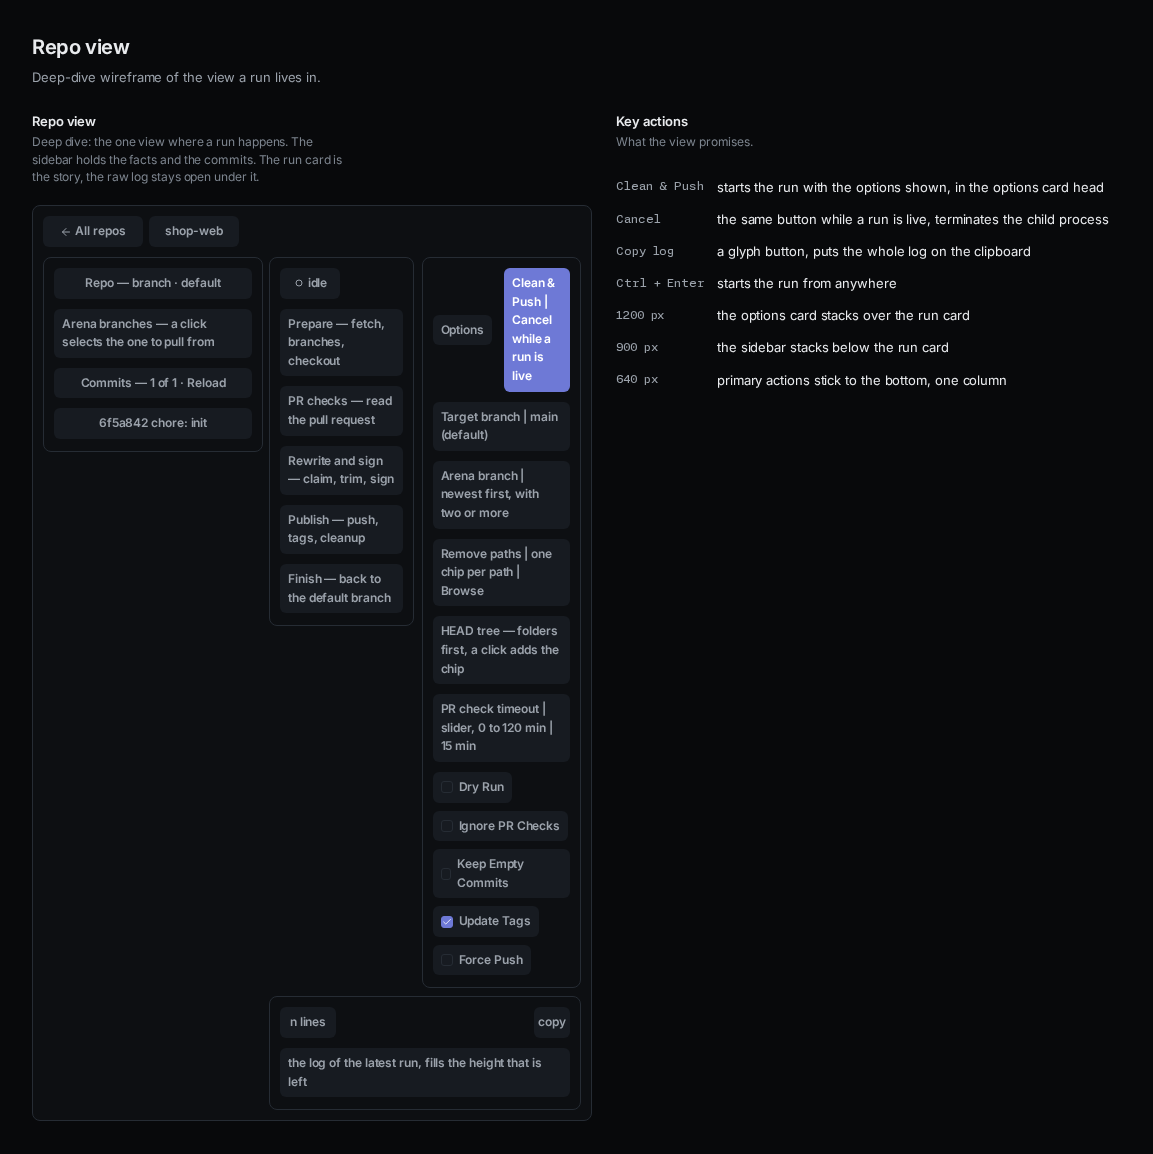
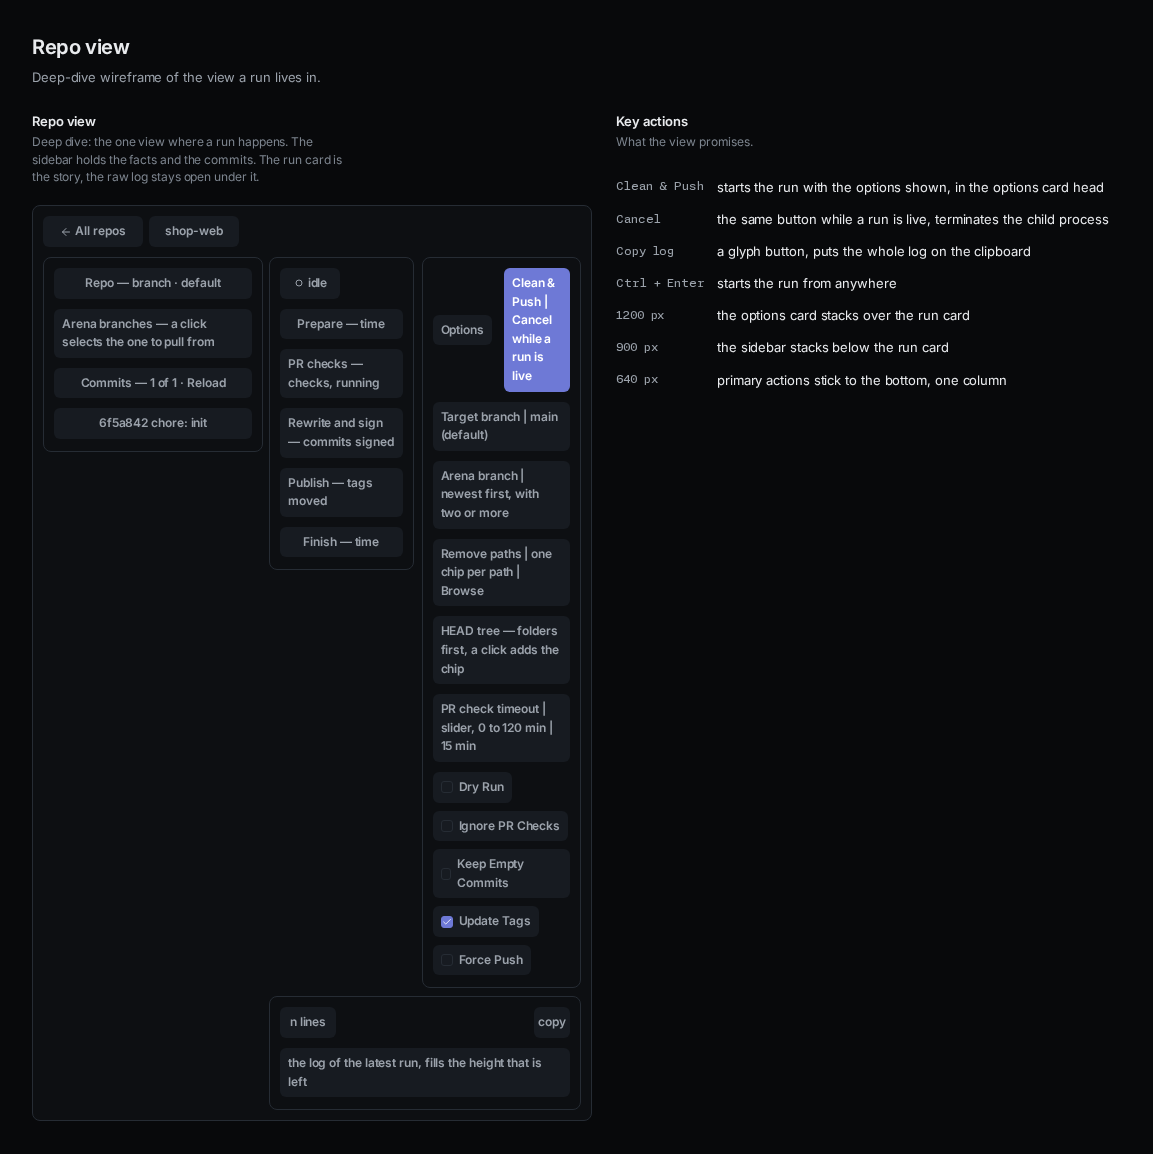
feat(ui): counts in the phase rows instead of hint texts

Changed region(s): [[0.2498, 0.2808, 0.3435, 0.5303]]

diff --git a/ui/static/index.html b/ui/static/index.html
@@ -875,6 +875,7 @@
     opened: 0,
     phases: [],
     phase: null,
+    counts: { checks: {}, dry: false },
     signing: null,
   };
 
@@ -1452,13 +1453,14 @@
   // ------------------------------------------------------------------- jobs
   // ------------------------------------------------------------ run stages
   // GitHub's run view, not a wall of text: one row per stage, ticked off as
-  // the engine reaches it, and the raw log one click away.
+  // the engine reaches it, and the raw log one click away. A row carries no
+  // text until the engine reports a count for it.
   const PHASES = [
-    { id: "prepare", name: "Prepare", sub: "fetch, branches, checkout" },
-    { id: "pr", name: "PR checks", sub: "read the pull request" },
-    { id: "rewrite", name: "Rewrite and sign", sub: "claim, trim, sign" },
-    { id: "publish", name: "Publish", sub: "push, tags, cleanup" },
-    { id: "sync", name: "Finish", sub: "back to the default branch" },
+    { id: "prepare", name: "Prepare", sub: "" },
+    { id: "pr", name: "PR checks", sub: "" },
+    { id: "rewrite", name: "Rewrite and sign", sub: "" },
+    { id: "publish", name: "Publish", sub: "" },
+    { id: "sync", name: "Finish", sub: "" },
   ];
   const PHASE_TESTS = [
     ["prepare", /^arena-cleanup \d|^claimed |^dry run:/],
@@ -1480,9 +1482,54 @@
     return null;
   }
 
+  function plural(n, word) {
+    return `${n} ${word}${n === 1 ? "" : "s"}`;
+  }
+
+  // The row texts come from the engine's own lines: how many checks the PR
+  // has and how many still run, how many commits got a signature, and how
+  // many tags moved on origin. A dry run says what would move instead.
+  function countFrom(text) {
+    const match = /^\S+\s+(INFO|OK|WARN|ERROR|DEBUG)\s+(.*)$/.exec(text);
+    if (!match) return;
+    const [, level, msg] = match;
+    const counts = state.counts;
+    const row = (id) => state.phases.find((p) => p.id === id) || {};
+    let m;
+    if (/^dry run:/.test(msg)) {
+      counts.dry = true;
+    } else if ((m = /^check "([^"]+)": /.exec(msg))) {
+      counts.checks[m[1]] = level; // WARN while it runs, ERROR when it failed
+      const states = Object.values(counts.checks);
+      const live = states.filter((x) => x === "WARN").length;
+      const failed = states.filter((x) => x === "ERROR").length;
+      row("pr").sub = plural(states.length, "check")
+        + (live ? `, ${live} running` : "") + (failed ? `, ${failed} failed` : "");
+    } else if (/reports no status checks at all/.test(msg)) {
+      row("pr").sub = "no checks";
+    } else if (/^no open PR for /.test(msg)) {
+      row("pr").sub = "no PR";
+    } else if (/^--skip-pr-check set/.test(msg)) {
+      row("pr").sub = "skipped";
+    } else if ((m = /^scanning\.\.\. \d+% \((\d+)\/(\d+)\)(?: - (\d+) rewritten)?/.exec(msg))) {
+      row("rewrite").sub = counts.dry
+        ? `${m[3] || 0} of ${plural(+m[2], "commit")} to rewrite`
+        : `${m[1]} of ${m[2]} scanned, ${m[3] || 0} rewritten`;
+    } else if ((m = /(\d+) commit\(s\): \d+ rewritten, (\d+) signed/.exec(msg))) {
+      row("rewrite").sub = `${m[2]} of ${plural(+m[1], "commit")} signed`;
+    } else if ((m = /^(\d+) tag\(s\) point into these commits and would move/.exec(msg))) {
+      row("publish").sub = `${plural(+m[1], "tag")} to move`;
+    } else if ((m = /^updated (\d+) tag\(s\) on origin/.exec(msg))) {
+      row("publish").sub = `${plural(+m[1], "tag")} moved`;
+    } else if ((m = /^--no-tags set: (\d+) tag\(s\) still name/.exec(msg))) {
+      row("publish").sub = `${plural(+m[1], "tag")} not moved`;
+    }
+  }
+
   function resetPhases() {
     state.phases = PHASES.map((p) => ({ ...p, state: "idle", lines: 0, start: 0, end: 0 }));
     state.phase = "prepare";
+    state.counts = { checks: {}, dry: false };
     $("phases").replaceChildren(...state.phases.map((p) =>
       el("li", { class: "phase", "data-phase": p.id, "data-state": "idle" },
         el("div", { class: "phase-head" },
@@ -1526,6 +1573,9 @@
     for (const p of state.phases) {
       if (p.state === "run") p.state = p === last && !ok && !cancelled ? "fail" : "done";
       if (p.state === "idle") p.state = "skip";
+      if (p.id === "publish" && p.state === "done" && !p.sub) {
+        p.sub = state.counts.dry ? "0 tags to move" : "0 tags moved";
+      }
       paintPhase(p);
     }
   }
@@ -1575,10 +1625,7 @@
       phase.lines += 1;
       phase.start = phase.start || line.t || Date.now() / 1000;
       phase.end = line.t || phase.end || Date.now() / 1000;
-      if (/^ok\b/i.test(msgOf(text)) || / done\b/.test(msgOf(text))) {
-        // a short status line for the row, so the list says what happened
-        phase.sub = text.replace(/^.*?\s(?:INFO|OK|WARN|ERROR)\s+/, "").slice(0, 64);
-      }
+      countFrom(text);
       if (phase.state === "idle") phase.state = "run";
       markEarlierDone(id);
     }

diff --git a/tests/e2e/test_phase_counts.py b/tests/e2e/test_phase_counts.py
@@ -1,0 +1,62 @@
+"""The phase rows carry the engine's counts, and no hint text."""
+
+from __future__ import annotations
+
+import re
+
+import pytest
+
+from scripts.walk import Demo, Walker
+
+pytestmark = pytest.mark.e2e
+
+WAIT_MS = 30000
+
+
+def row_texts(walker: Walker) -> dict[str, str]:
+  pairs = walker.page.eval_on_selector_all(
+    ".phase",
+    "els => els.map((e) => [e.dataset.phase, e.querySelector('.phase-sub').textContent])",
+  )
+  return dict(pairs)
+
+
+def test_idle_rows_show_only_their_names(desktop: Walker) -> None:
+  desktop.goto(1200)
+  # no e2e test runs infra-tools, so its view has no latest run to show
+  desktop.click(".repo-card:has-text('infra-tools')", 800)
+  assert set(row_texts(desktop).values()) == {""}
+
+
+def test_a_dry_run_counts_checks_commits_and_tags(desktop: Walker) -> None:
+  desktop.goto(1200)
+  desktop.click(".repo-card:has-text('shop-web')", 800)
+  desktop.click('input[data-opt="dry_run"]', 0)
+  desktop.click("#start", 0)
+  desktop.wait_status("exit")
+  rows = row_texts(desktop)
+  assert rows["prepare"] == ""
+  assert rows["pr"] == "4 checks"
+  assert re.fullmatch(r"\d+ of 23 commits to rewrite", rows["rewrite"])
+  assert rows["publish"] == "0 tags to move"
+  assert rows["sync"] == ""
+
+
+def test_a_waiting_check_shows_as_live(desktop: Walker, demo: Demo) -> None:
+  desktop.goto(1200)
+  desktop.click(".repo-card:has-text('docs-site')", 800)
+  demo.slow_checks(True)
+  try:
+    box = 'input[data-opt="dry_run"]'
+    if desktop.page.is_checked(box):
+      desktop.click(box, 150)
+    desktop.click("#start", 0)
+    desktop.page.wait_for_function(
+      "() => document.querySelector('.phase[data-phase=\"pr\"] .phase-sub')"
+      ".textContent === '1 check, 1 running'",
+      timeout=WAIT_MS,
+    )
+  finally:
+    demo.slow_checks(False)
+    desktop.click("#start", 0)
+    desktop.wait_status("cancelled")

diff --git a/scripts/design_boards.py b/scripts/design_boards.py
@@ -355,11 +355,11 @@ def wireframe_board(_: dict[str, bytes]) -> str:
     + "".join(
       block(f"{n} — {s}", height=24)
       for n, s in (
-        ("Prepare", "fetch, branches, checkout"),
-        ("PR checks", "read the pull request"),
-        ("Rewrite and sign", "claim, trim, sign"),
-        ("Publish", "push, tags, cleanup"),
-        ("Finish", "back to the default branch"),
+        ("Prepare", "time"),
+        ("PR checks", "checks, running"),
+        ("Rewrite and sign", "commits signed"),
+        ("Publish", "tags moved"),
+        ("Finish", "time"),
       )
     )
   )
@@ -462,13 +462,11 @@ def states_board(_: dict[str, bytes]) -> str:
   )
   phases = (
     '<ul class="phases card" style="width:420px">'
-    + phase("done", "Prepare", "fetch, branches, checkout", "0.4s")
-    + phase(
-      "run", "PR checks", 'check "ci": still running, waiting up to 15 min', "running"
-    )
-    + phase("idle", "Rewrite and sign", "claim, trim, sign", "")
-    + phase("skip", "Publish", "skipped: dry run", "")
-    + phase("fail", "Finish", "working tree has 1 uncommitted change", "<0.1s")
+    + phase("done", "Prepare", "", "0.4s")
+    + phase("run", "PR checks", "2 checks, 1 running", "running")
+    + phase("idle", "Rewrite and sign", "", "")
+    + phase("skip", "Publish", "", "")
+    + phase("fail", "Finish", "", "<0.1s")
     + "</ul>"
   )
   pr_pills = (

diff --git a/arena-cleanup.py b/arena-cleanup.py
@@ -44,7 +44,7 @@ from typing import Any
 
 # the one version of this file. pyproject.toml carries the same number for the
 # web app, and tests/test_cli.py keeps the two equal.
-__version__ = "0.2.3"
+__version__ = "0.2.4"
 PROG = "arena-cleanup"
 
 # =============================================================================

diff --git a/docs/design.md b/docs/design.md
@@ -76,6 +76,7 @@ The one design record for the arena-cleanup web app. The sections follow the nem
 - `commit`: grid `auto minmax(0, 1fr)`, the subject clamped to two lines with an ellipsis, the metadata on a second row. The row is a button with `aria-expanded`, and a tap shows the whole subject.
 - `row-btn.select`: a sidebar arena row that is a button with `aria-pressed`. The selected row carries a 2 px accent bar and the text colour. The name reads `Pull from <branch>`. Rows and the timeout slider are 44 px high on a phone.
 - `opt.row`: a grid of three columns, `128px minmax(0, 1fr) auto`, for the label, the control, and the trailing Browse or slider readout. `check`: a label with a drawn checkbox. The box is 16 px, 20 px on a phone, with a 4 px radius and the surface-2 fill. Checked, it takes the accent fill and a white Lucide check. `danger` fills a checked destructive option with the warn colour and a dark check. On a phone the checkboxes form a grid with 160 px columns. Browse, the fold head, and the 16 px path field are 44 px targets there.
+- `phase`: a row with the state glyph, the name, a count, and the time. The count comes from the engine's lines: the checks and how many still run, the commits signed of the total, and the tags moved. A dry run says what would move. Before that the row carries the name alone.
 - `repo-card`: a flex column. The actions sit at the bottom, so the buttons line up across a grid row.
 - `sign-row`: label column of 120 px and a value column. On a phone the label takes a full row.
 - `sign-fields`: name and e-mail side by side, one column on a phone.
@@ -168,3 +169,4 @@ The one design record for the arena-cleanup web app. The sections follow the nem
 - Accepted 2026-10-23: the primary button is flat. Its inset top highlight and drop shadow read as a bevel, so both are gone.
 - Accepted 2026-10-23: the log clock takes `dim`, 5.1:1 on the card. Its own grey read at 2.55:1, under the 4.5:1 floor.
 - Accepted 2026-10-23: the run card and the options card stretch to one height. The options body has no vertical padding and no rule under its last row, so its rows sit like the phase rows.
+- Accepted 2026-10-23: the phase rows lose their hint texts. A row shows a count once the engine reports one: checks and how many still run, commits signed of the total, and tags moved.

diff --git a/CHANGELOG.md b/CHANGELOG.md
@@ -5,6 +5,13 @@ This file documents all notable changes to this project.
 The format follows [Keep a Changelog](https://keepachangelog.com/en/1.1.0/),
 and the project uses [Semantic Versioning](https://semver.org/spec/v2.0.0.html).
 
+## [0.2.4] - 2026-10-23
+
+### Changed
+
+- The phase rows of the run card show counts instead of hint texts: the checks
+  and how many still run, the commits signed, and the tags moved.
+
 ## [0.2.3] - 2026-10-23
 
 ### Changed
